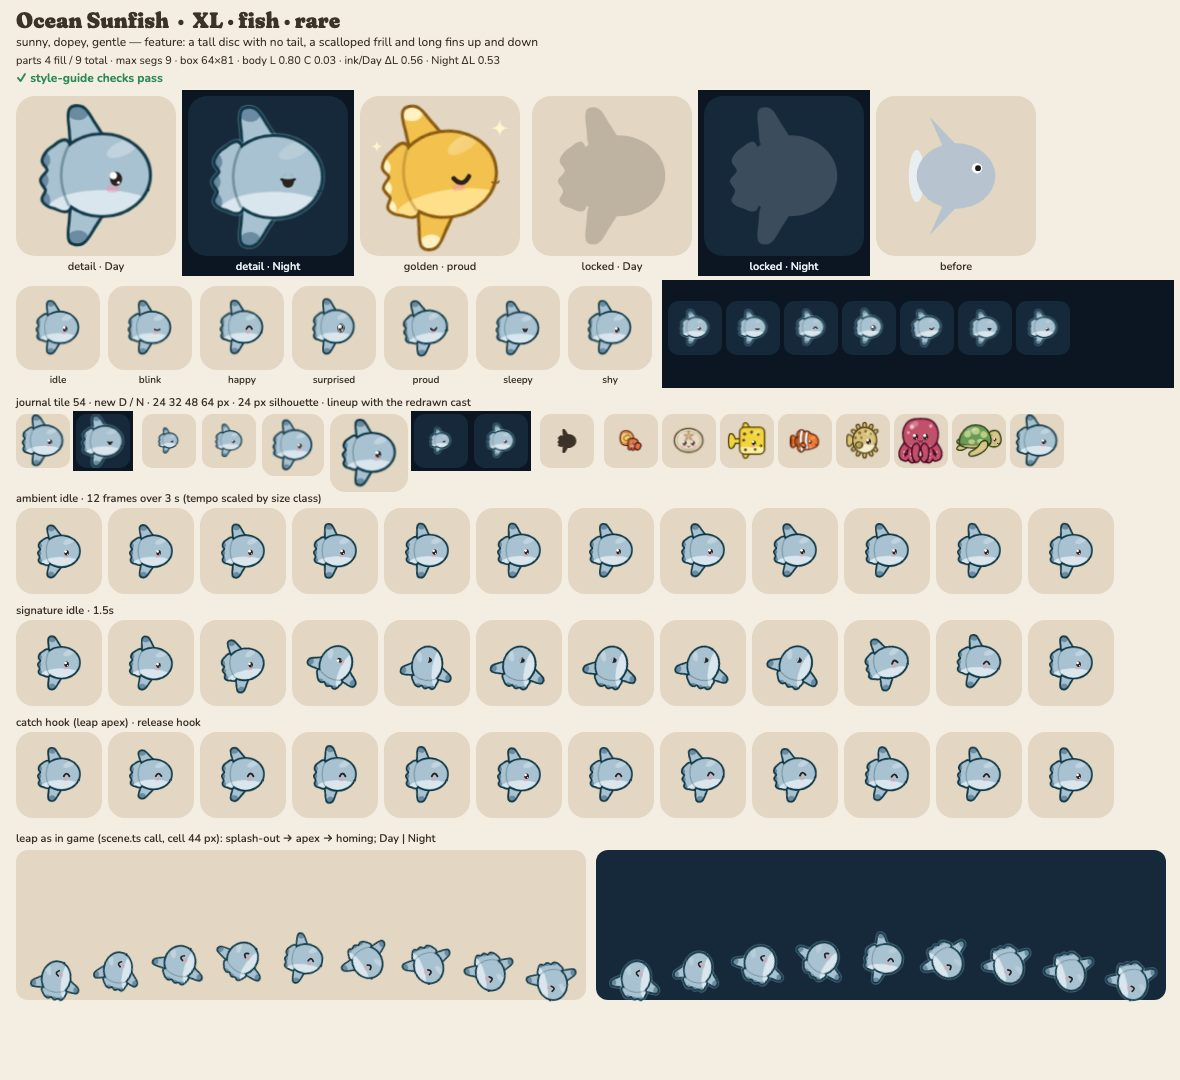
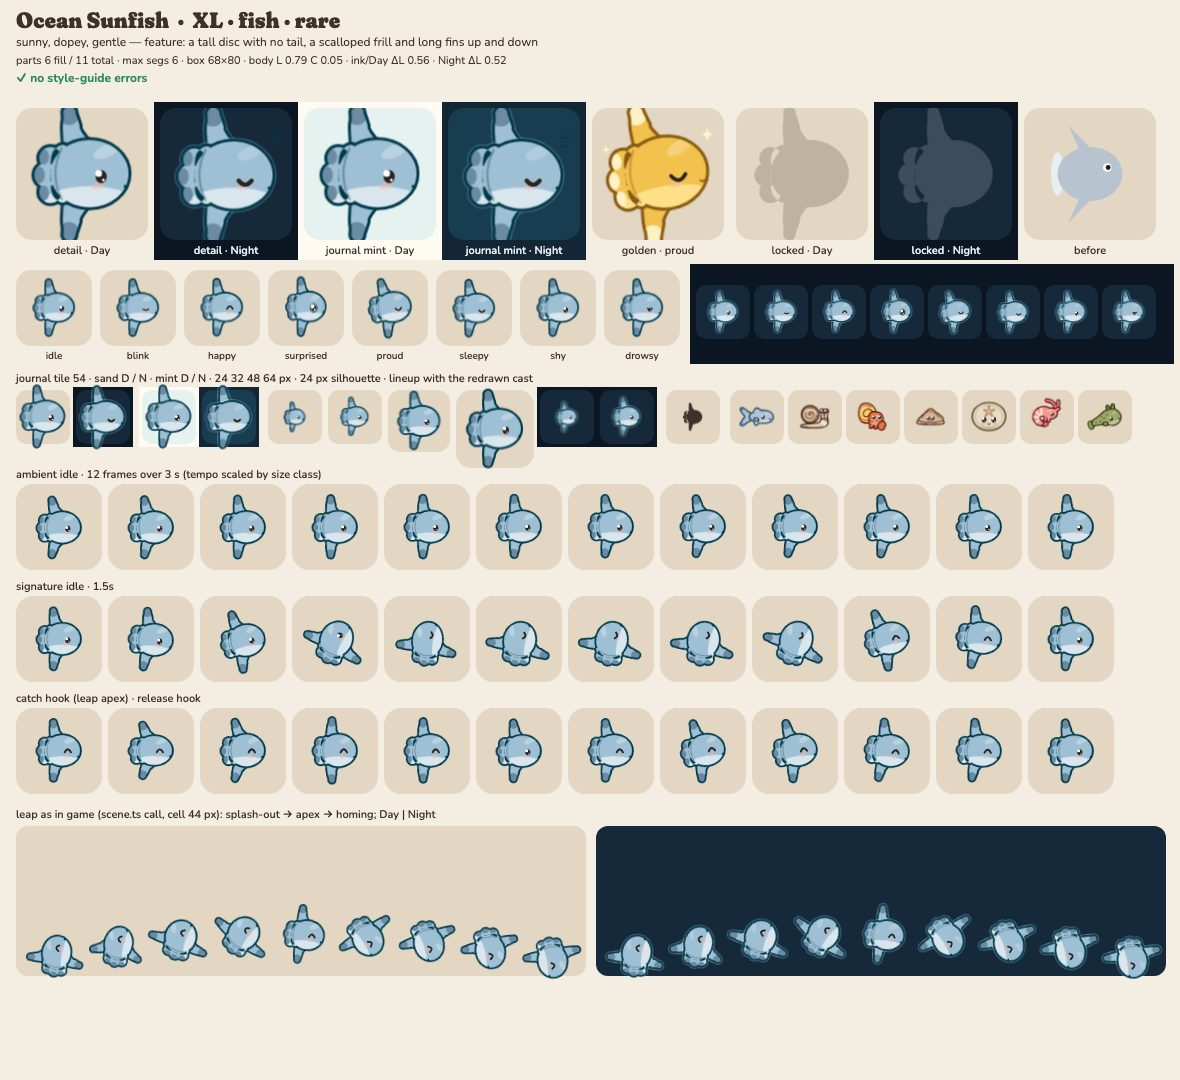
art: sunfish redo, three-scallop frill, frame-breaking fins, sun-blush (ADR 0011)

diff --git a/src/render/art/species/sunfish.ts b/src/render/art/species/sunfish.ts
@@ -7,41 +7,42 @@
  * then rights itself with a happy face.
  * Groups (back to front): dorsal, anal, body (disc + clavus).
  */
-import { blob, defineArt, ellipse, join } from '../kit.ts';
+import { blob, capsule, circle, defineArt, ellipse, join } from '../kit.ts';
 
 const disc = ellipse(2, 0, 28, 24);
-// the clavus: a soft scalloped frill instead of a tail
-const clavus = blob([
-  [-18, -18],
-  [-28, -16],
-  [-33, -9],
-  [-30, -3],
-  [-34, 3],
-  [-31, 9],
-  [-33, 15],
-  [-27, 19],
-  [-17, 18],
-]);
+// the clavus: a smooth frill of three big round scallops instead of a tail
+const clavus = join(
+  blob([
+    [-14, -18],
+    [-24, -16],
+    [-26, 0],
+    [-24, 16],
+    [-14, 18],
+  ]),
+  circle(-26, -11, 8),
+  circle(-29, 1, 8.5),
+  circle(-26, 13, 8),
+);
 const dorsal = blob([
   [2, -19],
-  [-4, -32],
-  [-10, -40],
-  [-17, -39],
+  [-4, -30],
+  [-9, -39],
+  [-16, -39],
   [-17, -28],
   [-14, -17],
 ]);
 const anal = blob([
   [2, 19],
-  [-4, 32],
-  [-10, 40],
-  [-17, 39],
+  [-4, 30],
+  [-9, 39],
+  [-16, 39],
   [-17, 28],
   [-14, 17],
 ]);
 // darker fin tips and frill edge (accent), so the shape reads on the silver body
-const dorsalTip = ellipse(-13, -39, 7, 6, 20);
-const analTip = ellipse(-13, 39, 7, 6, -20);
-const frillEdge = join(ellipse(-33, -9, 4, 5), ellipse(-34, 3, 4, 5), ellipse(-33, 15, 4, 5));
+const dorsalTip = ellipse(-13, -41, 7, 6.5, 10);
+const analTip = ellipse(-13, 41, 7, 6.5, -10);
+const frillEdge = join(ellipse(-31, -12, 4, 5.5), ellipse(-34, 1, 4, 6), ellipse(-31, 14, 4, 5.5));
 
 export default defineArt({
   id: 'sunfish',
@@ -49,13 +50,15 @@ export default defineArt({
   size: 'XL',
   feature: 'a tall disc with no tail, a scalloped frill and long fins up and down',
   personality: ['sunny', 'dopey', 'gentle'],
-  palette: { body: '#A9C2D1', accent: '#6B8BA2', belly: '#D9E6EE' },
+  palette: { body: '#9FC0D4', accent: '#6B8BA2', belly: '#D9E6EE' },
   groups: [
     {
       id: 'dorsal',
       pivot: [-6, -22],
       parts: [
         { d: dorsal, role: 'body' },
+        // XL frame-break (R28): the fin tip pokes 2–4 px past the tile's art box
+        { d: capsule(-11, -34, 6, -12.5, -43.5, 4.4), role: 'body', extra: true },
         { d: dorsalTip, role: 'accent', kind: 'pattern' },
       ],
     },
@@ -64,6 +67,7 @@ export default defineArt({
       pivot: [-6, 22],
       parts: [
         { d: anal, role: 'body' },
+        { d: capsule(-11, 34, 6, -12.5, 43.5, 4.4), role: 'body', extra: true },
         { d: analTip, role: 'accent', kind: 'pattern' },
       ],
     },
@@ -81,10 +85,14 @@ export default defineArt({
   shine: ellipse(14, -16, 10, 4.4, -24),
   face: {
     eyes: [[10, 2]],
-    eye: 8.4,
+    eye: 9.4,
     zone: [-2, -22, 32, 42],
-    mouth: { at: [29, 8], w: 4, shape: 'o' },
+    mouth: { at: [27, 8.5], w: 5, shape: 'o' },
     sweet: true,
+    blush: { color: '#FFB3A0', always: true },
+  },
+  deviations: {
+    R16S: 'silver identity (the mola is silver-grey); chroma 0.05 still reads on sand and mint, warmth comes from the sun-blush',
   },
   idle: {
     ambient: [

diff --git a/docs/art/notes/fleet-2.md b/docs/art/notes/fleet-2.md
@@ -225,3 +225,12 @@ Worst same-class pair overall among mine: clownfish/sunfish 0.684 and limpet/nau
 - `pout` moved to 0.6 eye-heights below the eye and close under it (it read as a stray dot at the
   snout); eye up to 12.3 (22 % of the zone).
 - Lint clean; IoU unchanged (sanddollar 0.73 cross-class, puffer 0.67 same class). Self-grade A-.
+
+## sunfish (graded B → redo)
+- Clavus rebuilt as a smooth frill of three big round scallops (the many-point blob read as a bite mark).
+- XL frame-break: each long fin ends in a short `extra` capsule that pokes 3.5 px past the tile's
+  art box (lint overhang 3.5 px); the fins themselves stay in the body box so the silhouette keeps
+  its tall proportions (making the whole fins `extra` re-scaled the mask and hit the sand dollar at 0.81).
+- Warm sun-blush `#FFB3A0` always on (`face.blush`), eye 9.4 (22 %), mouth `o` a touch larger.
+- R16S deviation: silver identity at chroma 0.05 (the mola is silver-grey); it reads on sand and mint.
+- IoU: lionfish 0.68, clownfish 0.68 (same class, limit 0.70). Self-grade A-.
